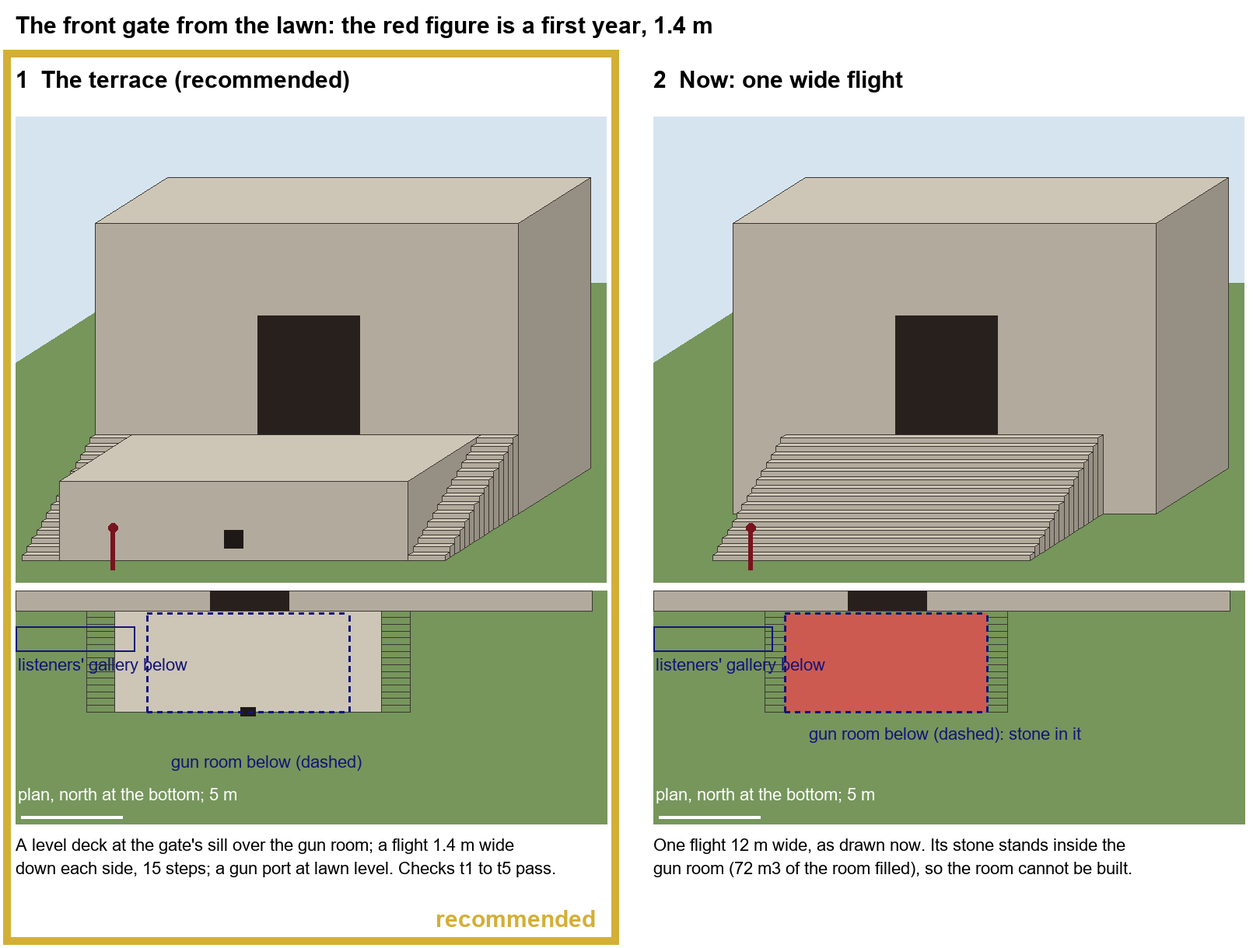
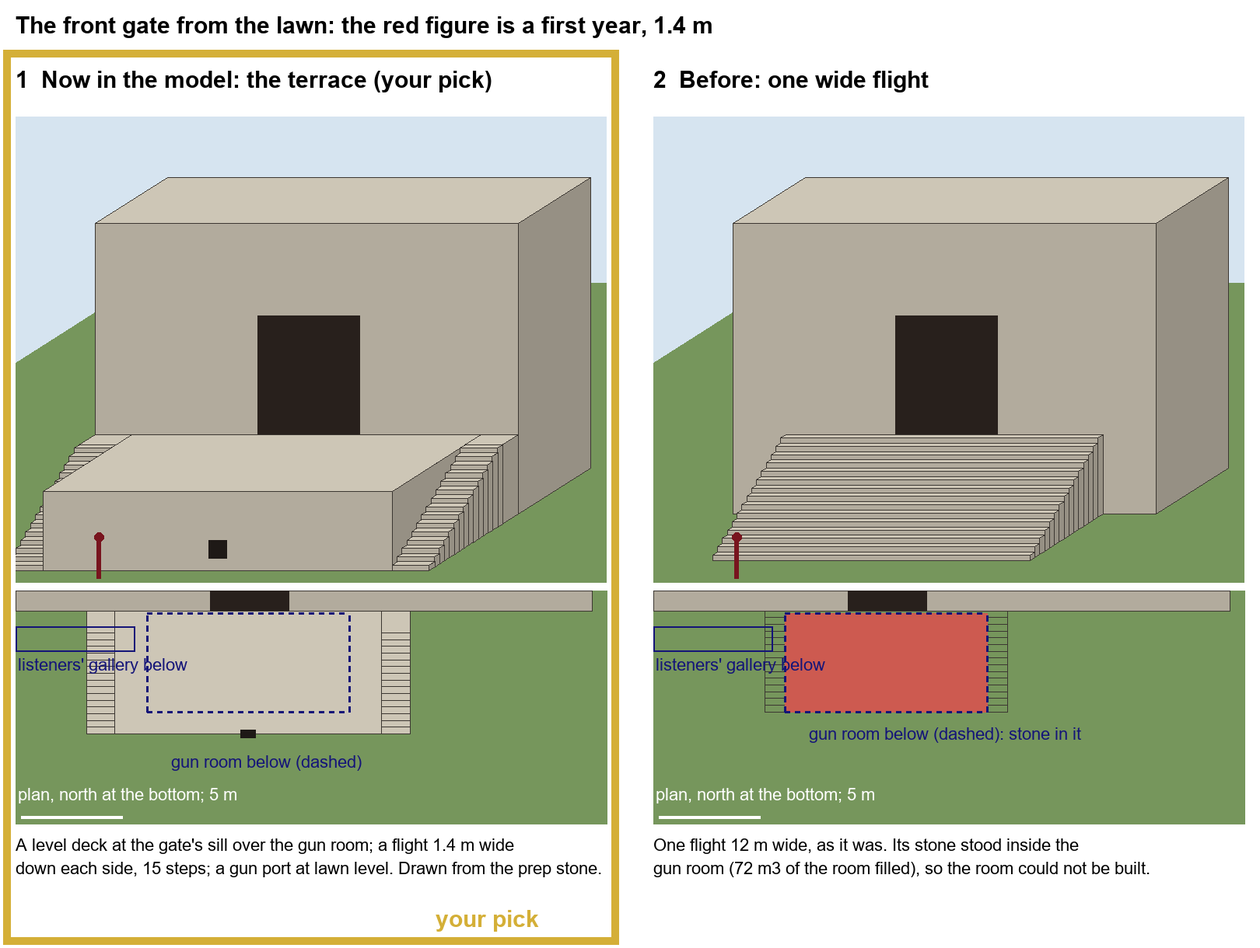
The front terrace in the castle model (v646); its sheet

diff --git a/page/castle-model.js b/page/castle-model.js
@@ -378,6 +378,7 @@ window.CASTLE_MODEL = {
     { "id": "cellars", "rect": [0, 0, 160, 72], "floors": "B", "state": "designed" }
   ],
   "works": [
+    {"id": "front-terrace", "kind": "terrace", "age": "P4", "poly": [[73.4, 85.0], [86.6, 85.0], [86.6, 91.1], [73.4, 91.1]], "base": -3.0, "top": 0.0, "state": "proposed", "about": "Req 5761, Godric's 1 (17 November 2026, 11.17 am): the level terrace over the gun room, a flight at each side, a gun port at lawn level; row 5827 (Fawkes 5.52 pm: build it as drawn); gate 'outdoor stone in the build' (docs/handoff/architect.md, 5.57 pm); tools/test_front_terrace_1117.py t1 to t5; the deck level with the gate's sill (0.0) over the gun room, solid but for it; its front at y 91.1, flush with the flights' feet, 1.1 m in front of the gun room (its wall over the port 1.1 thick); the gun port gun-room-port in that wall."},
     {"id": "p5-spur", "kind": "bastion", "age": "P5", "poly": [[18, 78], [46, 82], [46, 94], [32, 104], [16, 92]], "base": -4.0, "top": 3.0, "parapet": 4.2, "state": "designed", "about": "req 3197 (b), ledger 379: the angled gun bastion of the 1540s on the north lawn, from the massing (tools/architect-accreted-castle.py 'spur': lawn -4 to +3, battered, battlements), never carried into the model. Solid fill to +3 (the crawl gallery of H94 is dug in it, G V1 [16.0, 78.1, 46.1, 100.0]); its east face runs x 46 from y 82 to 94 and holds bastion-flanker's gun port and arch (the flanker's room x 40 to 44.8, y 84 to 92, ceiling 0.6), so the flanker's vault is inside it and no longer bare above the lawn. Drawn as a plain prism to its parapet (4.2, 1.2 over the platform); the batter is not drawn. Its lawn level is Grounds' (this base -4 is the ditch's fill, the massing's LAWN - 4)."},
     {"id": "entrance-buttress-w-1", "kind": "buttress", "age": "P2", "poly": [[68.5, 72], [70.0, 72], [70.0, 74.0], [68.5, 74.0]], "base": -1.5, "top": 6.0, "state": "proposed", "about": "req 3285, Godric's 1 on card 3276 and Exterior's yes on req 3338 (9 November 2026): the Entrance Hall's west north-front buttress for its rib vault (req 3245, spec docs/architect/entrance-hall-structure-3245-spec.md option 1), x 68.5 to 70.0, 1.5 wide, stepped back twice: tier 1 of 3, y 72 to 74.0, from -1.5 to 6.0. The Astronomy Tower's drum between the two is the great buttress. Drawn as a plain prism (castle-exterior.js and castle-shell.js read the works list); the weatherings between the tiers are not drawn."},
     {"id": "entrance-buttress-w-2", "kind": "buttress", "age": "P2", "poly": [[68.5, 72], [70.0, 72], [70.0, 73.3], [68.5, 73.3]], "base": 6.0, "top": 9.0, "state": "proposed", "about": "req 3285, Godric's 1 on card 3276 and Exterior's yes on req 3338 (9 November 2026): the Entrance Hall's west north-front buttress for its rib vault (req 3245, spec docs/architect/entrance-hall-structure-3245-spec.md option 1), x 68.5 to 70.0, 1.5 wide, stepped back twice: tier 2 of 3, y 72 to 73.3, from 6.0 to 9.0. The Astronomy Tower's drum between the two is the great buttress. Drawn as a plain prism (castle-exterior.js and castle-shell.js read the works list); the weatherings between the tiers are not drawn."},
@@ -714,7 +715,7 @@ window.CASTLE_MODEL = {
     {"id": "gate-passage", "look": {"rest": -3, "down": -45, "up": 45, "free": "req 848 fix 2 (Interaction's c53626dc, under Godric's rules of 7.30 am, 21 October 2026): the places to stand, from docs/interaction-places/gate-passage-1.json", "stands": {"start":{"at":[80.0,72.4],"face":[0.0,1.0],"turn":180},"front-doors":{"at":[80.0,76.7],"face":[0.0,-1.0],"turn":180},"guard-room-door":{"at":[79.4,77.8],"face":[-1.0,0.0],"turn":180},"gate-arch":{"at":[80.0,82.6],"face":[0.0,1.0],"turn":180},"mid-1":{"at":[80.0,71.5],"face":null,"turn":180},"mid-2":{"at":[80.0,74.1],"face":null,"turn":180},"s2-door-gate":{"at":[79.0,83.7],"face":[-1.0,0.0],"turn":180}}}, "first": "PS", "name": "the old gate passage through the Astronomy Tower's foot", "level": "G", "age": "P2", "use": "passage", "shape": {"rect": [78.0, 70.0, 82.0, 85.0]}, "ceiling": 4.5, "about": "H4's reading of the drum's foot (unresolved in v29): the tower (centre 80, 77; r 8) stands over the front doors, so its foot is pierced by the first walls' north gate, 4 wide, from an open arch at the drum's face (gate-arch, y 85, the top of the front steps) back to the oak front doors (front-doors, y 70), which stay where the books put them; a vaulted porch the boys walk through every day. Its stone keeps the portcullis's groove (portcullis-groove) and three small square murder holes in the vault (murder-holes); the guard room's wall pretending in its west side (guard-room-door). P2's gate, the portcullis last lowered in P4. Canon PS 6 L2286, PS 9 L2949 (the steps and the door); the gate invented. Ledger line 47 (req 494; Hidden Ways' docs/hidden-ways/batch-1.md, H4); Godric's 1 on hiddenways-batch1-1015 (15 October 2026, 6.11 pm, keep all six); v30; the reading proposed", "state": "proposed", "cite": "PS 6, PS 9"},
     {"id": "guard-room", "first": "PS", "name": "the old gate's guard room, in the Astronomy Tower's foot", "level": "G", "age": "P2", "use": "defence", "look": {"rest": -3, "down": -45, "up": 45, "about": "degrees about the eye at 1.35, positive up (docs/architect/vertical-views.md)", "free": "wave 5, floors G to 3 (the charter's walking freely, 149856e9; Godric's 1 on interaction-places-floorsG3-1020, taken on Fawkes's word 7.23 pm, confirmed 7.24 pm, 20 October 2026; checked by the lead Architect, tools/architect-places.mjs; ledger 141): the places to stand, from docs/interaction-places/guard-room-1.json", "stands": {"start":{"at":[77.1,77.0],"face":[-0.639,0.769],"turn":180},"bench":{"at":[75.4,76.5],"face":[-1.0,0.0],"turn":180},"rack":{"at":[76.0,74.7],"face":[0.0,-1.0],"turn":180},"loop":{"at":[75.6,79.4],"face":[-0.529,0.849],"turn":180}}}, "shape": {"rect": [74.2, 74.0, 77.6, 80.0]}, "ceiling": 4.5, "about": "H4: west of the gate passage inside the drum's wall (its inner face about r 6.5), 3.4 by 6.0, an arrow loop on the lawn (guard-room-loop); the mural stair up to the portcullis room in the drum's wall to its west (gate-mural-stair), the gun room's stair down at its north end (gun-room-stair). In by the passage's wall pretending (guard-room-door), the way back out; so a loop round by the portcullis room and the tower's spiral. Invented. a find, not a door that shows: once he has found it, it stays open to him; nothing glows to say tap me (docs/ministry/readers/GL.md); its way out always open. Ledger line 47 (req 494; Hidden Ways' docs/hidden-ways/batch-1.md, H4); Godric's 1 on hiddenways-batch1-1015 (15 October 2026, 6.11 pm, keep all six); v30; proposed with the gate's reading", "state": "proposed", "cite": ""},
     {"id": "portcullis-room", "first": "PS", "name": "the portcullis room, across the drum over the gate passage", "level": "1", "age": "P2", "use": "defence", "look": {"rest": -3, "down": -45, "up": 45, "about": "degrees about the eye at 1.35, positive up (docs/architect/vertical-views.md)", "free": "wave 5, floors G to 3 (the charter's walking freely, 149856e9; Godric's 1 on interaction-places-floorsG3-1020, taken on Fawkes's word 7.23 pm, confirmed 7.24 pm, 20 October 2026; checked by the lead Architect, tools/architect-places.mjs; ledger 141): the places to stand, from docs/interaction-places/portcullis-room-1.json", "stands": {"start":{"at":[85.4,79.5],"face":[-0.94,-0.34],"turn":180},"winch":{"at":[80.0,78.3],"face":[0.0,-1.0],"turn":180},"portcullis":{"at":[80.0,75.1],"face":[0.0,1.0],"turn":180},"floor-1":{"at":[76.13,75.5],"face":null,"turn":180},"floor-2":{"at":[76.13,78.5],"face":null,"turn":180},"floor-3":{"at":[83.87,75.5],"face":null,"turn":180},"floor-4":{"at":[83.87,78.5],"face":null,"turn":180}}}, "shape": {"rect": [74.2, 74.0, 85.8, 80.0]}, "ceiling": 4.5, "about": "H4: on 1 (z 5.2) across the drum over the passage, the old winch (portcullis-winch) and the portcullis's slot in its floor (portcullis-slot), the murder holes' tops beside it. In by the mural stair from the guard room (gate-mural-stair) and by a low door onto the tower's spiral where it passes +5.2 (portcullis-room-spiral, pending ledger 42's turret). Invented. a find, not a door that shows: once he has found it, it stays open to him; nothing glows to say tap me (docs/ministry/readers/GL.md); its way out always open. Ledger line 47 (req 494; Hidden Ways' docs/hidden-ways/batch-1.md, H4); Godric's 1 on hiddenways-batch1-1015 (15 October 2026, 6.11 pm, keep all six); v30; proposed with the gate's reading", "state": "proposed", "cite": ""},
-    {"id": "gun-room", "first": "PS", "name": "the gun room under the front steps", "level": "G", "age": "P4", "use": "defence", "floor": -3.0, "shape": {"rect": [75.0, 85.0, 85.0, 90.0]}, "ceiling": -0.6, "look": {"rest": -3, "down": -45, "up": 45, "about": "degrees about the eye at 1.35, positive up (docs/architect/vertical-views.md)", "free": "the places to stand, from docs/interaction-places/gun-room-1.json (variant 1, stamped model 101), folded in on req 2143 (31 October 2026) and checked against the room as it stands now: floor -3.0, rect 75 to 85 by 85 to 90; the gun stand moved from (80.0, 88.3), which lies on the gun carriage (barrel x 79.8 to 80.2, y 87.6 to 89.9), to (80.0, 86.6), facing the breech", "stands": {"start":{"at":[75.8,86.4],"face":[1.0,0.0],"turn":180},"gun":{"at":[80.0,86.6],"face":[0.0,1.0],"turn":180},"grating-west":{"at":[75.7,88.3],"face":[-1.0,0.0],"turn":180},"grating-east":{"at":[84.3,87.5],"face":[1.0,0.0],"turn":180}}}, "about": "H5: under the top of the front steps (the plans' steps, x 74 to 86, y 85 to 90), a low vault 10 by 5, its floor 3.0 below the doors' sill (the lawn's own level, so the steps climb 15 risers over it) and clear to -0.6; floor and ceiling from the ground floor's level. P4's battery before the gate tower, the steps laid up its face. Its old gun loops are small gratings in the steps' side walls (gun-room-grating-w, -e): daylight, the lawn's air, feet overhead. In by the narrow stair down from the guard room (gun-room-stair), its way back. Canon PS 6 L2286, PS 9 L2949, PoA 16 L19866 (the steps); the room invented. a find, not a door that shows: once he has found it, it stays open to him; nothing glows to say tap me (docs/ministry/readers/GL.md); its way out always open. Ledger line 48 (req 494; Hidden Ways' docs/hidden-ways/batch-1.md, H5); Godric's 1 on hiddenways-batch1-1015 (15 October 2026, 6.11 pm, keep all six); v30; proposed with the gate's reading", "state": "proposed", "cite": ""},
+    {"id": "gun-room", "first": "PS", "name": "the gun room under the front terrace", "level": "G", "age": "P4", "use": "defence", "floor": -3.0, "shape": {"rect": [75.0, 85.0, 85.0, 90.0]}, "ceiling": -0.7, "look": {"rest": -3, "down": -45, "up": 45, "about": "degrees about the eye at 1.35, positive up (docs/architect/vertical-views.md)", "free": "the places to stand, from docs/interaction-places/gun-room-1.json (variant 1, stamped model 101), folded in on req 2143 (31 October 2026) and checked against the room as it stands now: floor -3.0, rect 75 to 85 by 85 to 90; the gun stand moved from (80.0, 88.3), which lies on the gun carriage (barrel x 79.8 to 80.2, y 87.6 to 89.9), to (80.0, 86.6), facing the breech", "stands": {"start":{"at":[75.8,86.4],"face":[1.0,0.0],"turn":180},"gun":{"at":[80.0,86.6],"face":[0.0,1.0],"turn":180},"grating-west":{"at":[75.7,88.3],"face":[-1.0,0.0],"turn":180},"grating-east":{"at":[84.3,87.5],"face":[1.0,0.0],"turn":180}}}, "about": "H5: under the top of the front steps (the plans' steps, x 74 to 86, y 85 to 90), a low vault 10 by 5, its floor 3.0 below the doors' sill (the lawn's own level, so the steps climb 15 risers over it) and clear to -0.6; floor and ceiling from the ground floor's level. P4's battery before the gate tower, the steps laid up its face. Its old gun loops are small gratings in the steps' side walls (gun-room-grating-w, -e): daylight, the lawn's air, feet overhead. In by the narrow stair down from the guard room (gun-room-stair), its way back. Canon PS 6 L2286, PS 9 L2949, PoA 16 L19866 (the steps); the room invented. a find, not a door that shows: once he has found it, it stays open to him; nothing glows to say tap me (docs/ministry/readers/GL.md); its way out always open. Ledger line 48 (req 494; Hidden Ways' docs/hidden-ways/batch-1.md, H5); Godric's 1 on hiddenways-batch1-1015 (15 October 2026, 6.11 pm, keep all six); v30; proposed with the gate's reading", "state": "proposed", "cite": ""},
     {"id": "drum-room-6", "first": "PS", "name": "the round room under the common room, the house's old strong room", "level": "6", "age": "P3", "use": "store", "look": {"rest": -3, "down": -45, "up": 45, "about": "degrees about the eye at 1.35, positive up (docs/architect/vertical-views.md)", "free": "Interaction's floor 5 and 6 places (the charter's walking freely, 149856e9; Godric's 1 on interaction-places-floor5 and -floor6, Godric to confirm; checked by the second Architect, tools/architect-w5b-places.mjs, 0 flagged; row W5B-17): the places to stand, from docs/interaction-places/drum-room-6-1.json", "stands": {"start":{"at":[42.19,6.45],"face":[0.0,-1.0],"turn":180},"chests":{"at":[45.79,1.95],"face":[1.0,0.0],"turn":180},"plate-press":{"at":[39.07,0.15],"face":[-0.867,-0.498],"turn":180},"banners":{"at":[38.59,1.95],"face":[-1.0,-0.0],"turn":180},"records":{"at":[39.07,3.75],"face":[-0.867,0.498],"turn":180},"window":{"at":[42.19,-2.05],"face":[0.0,-1.0],"turn":180},"floor-1":{"at":[42.19,1.95],"face":null,"turn":180}}}, "shape": {"circle": [42.19, 1.95], "r": 5.0}, "ceiling": 4.5, "about": "H6: on 6 (z 31.2, clear 4.5) inside Gryffindor Tower's drum (r 6.4, its wall 1.4), 10 across, the floor under the common room (on 7). The layout's sixth-floor storeroom of the house made a find; G to 5 stay storerooms. On 6 the lake-face corridor stops at the drum each side (x 35.8, 48.6) and the way round is north of it, the layout's bend (x 35.8 to 48.6, y 8.35 to 11.35) and its service passage u, confirmed; in by a stretch of the drum's curved wall on that bend that is a wall pretending (drum-room-6-door, PS 8 L2722), the way back out; a window on the lake (drum-room-6-window). P3's strong room under the house's hall, forgotten. Opens nothing into the common room, never bypasses the Fat Lady. Canon PS 7 L2677 (the common room round); invented. a find, not a door that shows: once he has found it, it stays open to him; nothing glows to say tap me (docs/ministry/readers/GL.md); its way out always open. Ledger line 49 (req 494; Hidden Ways' docs/hidden-ways/batch-1.md, H6); Godric's 1 on hiddenways-batch1-1015 (15 October 2026, 6.11 pm, keep all six); v30", "state": "designed", "cite": "PS 8"},
     {"id": "founders-undercroft", "look": {"rest": -3, "down": -45, "up": 45, "stands": {"start": {"turn": 180}, "founders-well": {"at": [81.5, 6.8], "face": [-1.0, 0.0], "turn": 180}, "stone-bins": {"at": [86.6, 6.75], "face": [1.0, 0.0], "turn": 180}, "crocks": {"at": [74.5, 9.6], "face": [0.0, 1.0], "turn": 180}, "stave-heap": {"at": [86.5, 9.2], "face": [0.0, 1.0], "turn": 180}, "salting-trough": {"at": [73.2, 6.0], "face": [-1.0, 0.0], "turn": 180}, "walled-arch": {"at": [80.0, 3.4], "face": [0.0, -1.0], "turn": 180}, "west-arch": {"at": [72.4, 2.6], "face": [-1.0, 0.0], "turn": 180}, "floor-1": {"at": [76.2, 2.8], "face": null, "turn": 180}, "floor-2": {"at": [84.0, 2.8], "face": null, "turn": 180}, "floor-3": {"at": [87.4, 3.2], "face": null, "turn": 180}, "floor-4": {"at": [77.0, 7.0], "face": null, "turn": 180}, "floor-5": {"at": [83.8, 4.8], "face": null, "turn": 180}, "floor-6": {"at": [83.0, 9.6], "face": null, "turn": 180}}, "free": "req 719 (Interaction; the charter's walking freely, 149856e9; Godric's 1 on its places card, 20 October 2026, 11.50 to 11.52 am): the places to stand, from docs/interaction-places/founders-undercroft-1.json"}, "first": "PS", "name": "the founders' undercroft, the keep's lowest storey, and their well", "level": "B", "age": "P1", "use": "cellar", "shape": {"rect": [71.0, 2.0, 89.0, 11.6]}, "ceiling": 4.2, "vault": {"kind": "groin", "piers": [[77.0, 6.8], [83.0, 6.8]], "about": "three groin bays of 6 by 4.8 on two free piers, so the founders' well (79.2 to 80.8, 6.0 to 7.6) stands under the middle bay's crown; the default set its middle pier on the well (the Architect's 163rd, 24 October 2026, found shooting the lid sheet for req 1104). v201"}, "about": "H7: under the founders' keep at B (z -5.2, clear 4.2 to the vault's crown), rough vaulted in the keep's thick walls, 18 by 9.6, south of the dungeon corridor (y 12 to 15). The founders' well in it (founders-well), its oak lid shut and heavy, never open water, set per boy (Godric's safeguard). In its south wall against the cliff the founders' own stair down through the rock to the harbour, walled up long ago (founders-stair-arch): it stays a walled arch, a trace, and nothing opens to the harbour (opening it is a Ministry question). Ways in: a wall pretending at the dead end, against the keep, of the lake-face corridor's stretch west of it (undercroft-wall, then undercroft-west-way through the keep's 3 m wall), and a low door in the dungeon corridor's south wall (undercroft-door). The keep's lowest storey, its stores and its water (P1), walled off when the first walls gave the school a gate (P2). Canon CoS 9 (built far from prying eyes), PS 8 L2776 (the dungeons colder); the room invented. a find, not a door that shows: once he has found it, it stays open to him; nothing glows to say tap me (docs/ministry/readers/GL.md); its way out always open. Ledger line 50 (req 501; Hidden Ways' docs/hidden-ways/batch-2.md, H7); Godric's 1 on hiddenways-batch2-1015 (15 October 2026, 6.21 pm, keep all five); v31", "state": "designed", "cite": "CoS 9", "blind": "no window on purpose: the keep's undercroft, under its lake terrace: lamps (by what it is for; architect-dark-rooms-1021, Try 4 (Godric, 7.52 pm, 21 October 2026, relayed by Fawkes; req 866 (3)); ledger 209, v144)"},
     {"id": "undercroft-west-way", "first": "PS", "name": "the way through the keep's west wall to the undercroft", "level": "B", "age": "P1", "use": "hidden", "look": {"rest": -3, "down": -45, "up": 45, "about": "degrees about the eye at 1.35, positive up (docs/architect/vertical-views.md)", "free": "wave 5 floor B's places, variant 1, taken at 1 on Fawkes's rule (6.10 pm, 20 October 2026), confirmed by Godric (interaction-places-floorB-1020, 6.56 to 6.58 pm); ledger 132: the places to stand, from docs/interaction-places/undercroft-west-way-1.json", "stands": {"start":{"at":[68.6,2.6],"face":[1.0,0.0],"turn":180},"arch":{"at":[70.4,2.6],"face":[1.0,0.0],"turn":180}}}, "shape": {"rect": [68.0, 2.1, 71.0, 3.1]}, "ceiling": 2.2, "about": "H7: 1.0 wide and 3.0 long through the keep's wall, from the wall pretending at the corridor's dead end (undercroft-wall) to a low arch into the undercroft's west end (undercroft-west-arch). a find, not a door that shows: once he has found it, it stays open to him; nothing glows to say tap me (docs/ministry/readers/GL.md); its way out always open. Ledger line 50 (req 501; Hidden Ways' docs/hidden-ways/batch-2.md, H7); Godric's 1 on hiddenways-batch2-1015 (15 October 2026, 6.21 pm, keep all five); v31", "state": "designed", "cite": "", "blind": "no window on purpose: through the keep's west wall (a hidden way or room; architect-dark-rooms-1021, Try 4 (Godric, 7.52 pm, 21 October 2026, relayed by Fawkes; req 866 (3)); ledger 209, v144)"},
@@ -1295,8 +1296,7 @@ window.CASTLE_MODEL = {
     {"id": "guard-room-door", "inside": "guard-room", "first": "PS", "kind": "hidden: a wall pretending to be one", "between": ["gate-passage", "guard-room"], "at": [77.8, 77.0], "sill": 0.0, "w": 0.9, "h": 2.0, "state": "proposed", "about": "in the gate passage's west wall (PS 8 L2722). a find, not a door that shows: once he has found it, it stays open to him; nothing glows to say tap me (docs/ministry/readers/GL.md); its way out always open. Ledger line 47 (req 494; Hidden Ways' docs/hidden-ways/batch-1.md, H4); Godric's 1 on hiddenways-batch1-1015 (15 October 2026, 6.11 pm, keep all six); v30 v36: its hidden side guard-room, from which it is a way out, drawn as the opening's back (the way out from every hidden place)", "cite": "PS 8"},
     {"id": "guard-room-loop", "first": "PS", "kind": "arrow loop", "room": "guard-room", "at": [73.9, 82.1], "w": 0.15, "h": 1.2, "sill": 1.0, "depth": 2.4, "view": "the front lawn to the north-west", "state": "proposed", "about": "Ledger line 47 (req 494; Hidden Ways' docs/hidden-ways/batch-1.md, H4); Godric's 1 on hiddenways-batch1-1015 (15 October 2026, 6.11 pm, keep all six); v30", "cite": ""},
     {"id": "portcullis-room-spiral", "inside": "portcullis-room", "first": "PS", "kind": "hidden: a low door in the spiral's wall", "between": ["portcullis-room", "the Astronomy Tower's spiral"], "at": [85.4, 80.0], "sill": 0.0, "w": 0.8, "h": 1.5, "state": "proposed", "about": "onto the tower's spiral in its turret (astronomy-spiral, ledger 42, centre 86.6, 82) where it passes +5.2, through the drum's wall at the room's north-east corner (v31; proposed with H4's reading). a find, not a door that shows: once he has found it, it stays open to him; nothing glows to say tap me (docs/ministry/readers/GL.md); its way out always open. Ledger line 47 (req 494; Hidden Ways' docs/hidden-ways/batch-1.md, H4); Godric's 1 on hiddenways-batch1-1015 (15 October 2026, 6.11 pm, keep all six); v30 v36: its hidden side portcullis-room, from which it is a way out, drawn as the opening's back (the way out from every hidden place)", "cite": ""},
-    {"id": "gun-room-grating-w", "first": "PS", "kind": "grating, small, the old gun loop, in the steps' side wall", "room": "gun-room", "at": [75.0, 87.5], "w": 0.6, "h": 0.3, "sill": 1.8, "view": "the lawn, low", "state": "proposed", "about": "Ledger line 48 (req 494; Hidden Ways' docs/hidden-ways/batch-1.md, H5); Godric's 1 on hiddenways-batch1-1015 (15 October 2026, 6.11 pm, keep all six); v30", "cite": ""},
-    {"id": "gun-room-grating-e", "first": "PS", "kind": "grating, small, the old gun loop, in the steps' side wall", "room": "gun-room", "at": [85.0, 87.5], "w": 0.6, "h": 0.3, "sill": 1.8, "view": "the lawn, low", "state": "proposed", "about": "Ledger line 48 (req 494; Hidden Ways' docs/hidden-ways/batch-1.md, H5); Godric's 1 on hiddenways-batch1-1015 (15 October 2026, 6.11 pm, keep all six); v30", "cite": ""},
+    {"id": "gun-room-port", "first": "PS", "kind": "embrasure, its gun's, cannon-flared inside, in the terrace's front wall", "room": "gun-room", "at": [80.0, 90.0], "w": 0.7, "h": 0.7, "sill": 0.45, "view": "the lawn, level", "state": "proposed", "about": "Req 5761, Godric's 1 (17 November 2026, 11.17 am): the level terrace over the gun room, a flight at each side, a gun port at lawn level; row 5827 (Fawkes 5.52 pm: build it as drawn); gate 'outdoor stone in the build' (docs/handoff/architect.md, 5.57 pm); tools/test_front_terrace_1117.py t1 to t5; sill 0.45 over the room's floor, which is the lawn's level, so a gun on its deck fires level over the lawn."},
     {"id": "drum-room-6-door", "inside": "drum-room-6", "first": "PS", "kind": "hidden: a wall pretending to be one", "between": ["drum-bend-6", "drum-room-6"], "at": [42.19, 8.35], "sill": 0.0, "w": 0.9, "h": 2.0, "depth": 1.4, "state": "designed", "about": "a stretch of the drum's curved wall on the bend north of it, bearing 0 (PS 8 L2722). a find, not a door that shows: once he has found it, it stays open to him; nothing glows to say tap me (docs/ministry/readers/GL.md); its way out always open. Ledger line 49 (req 494; Hidden Ways' docs/hidden-ways/batch-1.md, H6); Godric's 1 on hiddenways-batch1-1015 (15 October 2026, 6.11 pm, keep all six); v30 v36: its hidden side drum-room-6, from which it is a way out, drawn as the opening's back (the way out from every hidden place)", "cite": "PS 8"},
     {"id": "drum-room-6-window", "first": "PS", "kind": "window, in the drum's wall", "room": "drum-room-6", "at": [42.19, -4.45], "w": 0.9, "h": 2.0, "sill": 1.0, "depth": 1.4, "view": "the lake to the south", "state": "designed", "about": "bearing 180, under the common room's own. Ledger line 49 (req 494; Hidden Ways' docs/hidden-ways/batch-1.md, H6); Godric's 1 on hiddenways-batch1-1015 (15 October 2026, 6.11 pm, keep all six); v30", "cite": ""},
     {"id": "undercroft-wall", "inside": "undercroft-west-way", "first": "PS", "kind": "hidden: a wall pretending to be one", "between": ["lake-corridor-b-keep", "undercroft-west-way"], "at": [68.0, 2.6], "sill": 0.0, "w": 0.9, "h": 2.0, "state": "designed", "about": "the corridor's end wall sounds hollow (PS 8 L2722). a find, not a door that shows: once he has found it, it stays open to him; nothing glows to say tap me (docs/ministry/readers/GL.md); its way out always open. Ledger line 50 (req 501; Hidden Ways' docs/hidden-ways/batch-2.md, H7); Godric's 1 on hiddenways-batch2-1015 (15 October 2026, 6.21 pm, keep all five); v31 v36: its hidden side undercroft-west-way, from which it is a way out, drawn as the opening's back (the way out from every hidden place)", "cite": "PS 8"},
@@ -2041,8 +2041,9 @@ window.CASTLE_MODEL = {
     {"id": "mural-stair-5", "first": "PS", "kind": "mural stair, narrow and steep, in the well's east wall, built out 1.2 into the east courtyard", "rooms": ["stair hall"], "rect": [92.0, 24.0, 93.2, 30.5], "from": 26.0, "to": 31.2, "treads": 26, "rise": 0.2, "going": 0.225, "about": "PS 7's short cut (\"twice Percy led them through doorways hidden behind sliding panels and hanging tapestries\"): from hidden-doorway-tapestry on 5 north up a straight flight to hidden-doorway-tapestry-head on 6; a 0.65 m landing inside the door before the first riser (Interiors' near miss, a boy crouched a step inside, docs/interiors/stair-hall.md). sheet architect-hidden-ways-1015-1713", "state": "proposed", "cite": "PS 7"},
     {"id": "hall-kitchens-stair", "first": "PS", "kind": "dog-leg stair behind a false panel, the elves' way down from the hall to the kitchens", "rooms": ["great-hall", "kitchens"], "rect": [12.6, 64.0, 15.0, 69.4], "floors": ["B", "G"], "from": -5.2, "to": 0.45, "treads": 28, "rise": 0.2, "going": 0.25, "lamp": {"at": [13.8, 69.4], "z": 2.65, "about": "the stair's own lamp, an iron bracket on the north wall over the landing, 2.2 above it at the dog-leg's top: it lights the first flight's top step (x 13.6 to 14.6, y 68.4) when the panel opens, and stands west of the open leaf (x 14.2 to 15.0, to 2.35); behind the shut panel nothing of it shows in the hall (ledger line 112, req 615)"}, "about": "in the free strip west of the hall's north end (on G between the chamber behind the staff table, to y 63, and the north wall; on B between the elves' warm room secret-s3, to y 64, and the north wall): a landing inside the panel at the platform's height (+0.45, x 13.6 to 15, y 68.4 to 69.4), a flight of 14 south down x 13.6 to 14.6, a half-landing at y 64.0 to 64.9, a flight of 14 back north down x 12.6 to 13.6, and a landing at -5.2 under the first (x 12.6 to 15, y 68.4 to 69.4) to the jib in the kitchens' west wall (kitchens-stair-jib). The kitchens' tables stand exactly beneath the house tables (GoF 21 L28856), so the elves' way up runs from the hall's west end down to the fireplace's end; nothing near the seven passages to Hogsmeade. Ledger line 43 (req 491, the Great Hall's ask; Godric's note of 15 October 2026, 5.42 pm, hidden places behind false panels and trapdoors); v30; designed, Godric's 1 on architect-v30-1015 (15 October 2026, 7.17 pm: the false panel)", "state": "designed", "cite": "GoF 21"},
     {"id": "gate-mural-stair", "first": "PS", "kind": "mural stair, narrow and steep, in the Astronomy Tower drum's west wall", "rooms": ["guard-room", "portcullis-room"], "rect": [72.9, 73.6, 73.7, 80.4], "from": 0.0, "to": 5.2, "treads": 26, "rise": 0.2, "going": 0.26, "about": "H4: its foot off the guard room's west wall at its north end, climbing south in the wall, its head into the portcullis room's west end; lit by the loops. Ledger line 47 (req 494; Hidden Ways' docs/hidden-ways/batch-1.md, H4); Godric's 1 on hiddenways-batch1-1015 (15 October 2026, 6.11 pm, keep all six); v30; proposed with the gate's reading", "state": "proposed", "cite": ""},
-    {"id": "gun-room-stair", "first": "PS", "kind": "narrow straight stair down, in the drum's wall and under the terrace", "rooms": ["guard-room", "gun-room"], "rect": [74.4, 80.2, 75.3, 85.2], "from": -3.0, "to": 0.0, "treads": 15, "rise": 0.2, "going": 0.33, "about": "H5: from the guard room's north end down north to the gun room's west end. Ledger line 48 (req 494; Hidden Ways' docs/hidden-ways/batch-1.md, H5); Godric's 1 on hiddenways-batch1-1015 (15 October 2026, 6.11 pm, keep all six); v30; proposed with the gate's reading", "state": "proposed", "cite": ""},
-    {"id": "front-steps", "first": "PS", "kind": "broad straight flight, the castle's front steps, up from the lawn to the gate arch", "rooms": ["grounds"], "rect": [74.0, 85.0, 86.0, 90.0], "from": -3.0, "to": 0.0, "treads": 15, "rise": 0.2, "going": 0.333, "about": "Req 2730 (scope answer 3 November 2026, docs/architect/scope-answer-1103.md): the steps the changes ledger line 333 ruled, foot at y 90 on the lawn at -3.0, top at the gate arch (y 85, the doors' sill level), 12 wide, fifteen risers laid over the gun room (rooms:gun-room, floor -3.0, rect 75 to 85 by 85 to 90) as H5 reads them; the drive's sweep (ground:drive) leaves the foot 10 m out. Width 12 and the fifteen risers are the plans'; the reading stays proposed.", "state": "proposed", "cite": "PS 6"},
+    {"id": "gun-room-stair", "first": "PS", "kind": "narrow straight stair down, in the drum's wall and under the terrace", "rooms": ["guard-room", "gun-room"], "rect": [74.4, 80.2, 75.3, 85.2], "from": -3.0, "to": 0.0, "up": [0, -1], "treads": 15, "rise": 0.2, "going": 0.33, "about": "H5: from the guard room's north end down north to the gun room's west end. Ledger line 48 (req 494; Hidden Ways' docs/hidden-ways/batch-1.md, H5); Godric's 1 on hiddenways-batch1-1015 (15 October 2026, 6.11 pm, keep all six); v30; proposed with the gate's reading", "state": "proposed", "cite": ""},
+    {"id": "front-steps-w", "first": "PS", "kind": "straight flight, open to the sky, solid under each tread: the front terrace's west steps, up from the lawn to the terrace beside the gate", "rooms": ["grounds"], "outdoor": true, "rect": [72.0, 85.0, 73.4, 91.1], "from": -3.0, "to": 0.0, "up": [0, -1], "treads": 15, "rise": 0.2, "going": 0.333333, "about": "Req 5761, Godric's 1 (17 November 2026, 11.17 am): the level terrace over the gun room, a flight at each side, a gun port at lawn level; row 5827 (Fawkes 5.52 pm: build it as drawn); gate 'outdoor stone in the build' (docs/handoff/architect.md, 5.57 pm); tools/test_front_terrace_1117.py t1 to t5; foot at y 91.1 on the lawn, flush with the terrace's front, the last 1.1 m to the tower face a landing at the terrace's 0.0 (read38's t6: s2-double-stair's round wall stands out to y 86.03 over the west flight's top). Replaces front-steps (12 wide over the gun room, PS 6; the 4 m overlap Godric saw).", "state": "proposed", "cite": "PS 6"},
+    {"id": "front-steps-e", "first": "PS", "kind": "straight flight, open to the sky, solid under each tread: the front terrace's east steps, up from the lawn to the terrace beside the gate", "rooms": ["grounds"], "outdoor": true, "rect": [86.6, 85.0, 88.0, 91.1], "from": -3.0, "to": 0.0, "up": [0, -1], "treads": 15, "rise": 0.2, "going": 0.333333, "about": "Req 5761, Godric's 1 (17 November 2026, 11.17 am): the level terrace over the gun room, a flight at each side, a gun port at lawn level; row 5827 (Fawkes 5.52 pm: build it as drawn); gate 'outdoor stone in the build' (docs/handoff/architect.md, 5.57 pm); tools/test_front_terrace_1117.py t1 to t5; foot at y 91.1 on the lawn, flush with the terrace's front, the last 1.1 m to the tower face a landing at the terrace's 0.0 (read38's t6: s2-double-stair's round wall stands out to y 86.03 over the west flight's top). Replaces front-steps (12 wide over the gun room, PS 6; the 4 m overlap Godric saw).", "state": "proposed", "cite": "PS 6"},
     {"id": "library-gallery-stair", "first": "PS", "kind": "straight stair, narrow and steep, climbing south in the strip between Madam Pince's office and K's lobby", "rooms": ["library", "library-gallery-way"], "rect": [65.0, 54.75, 65.9, 60.5], "floors": ["4", "5"], "from": 20.8, "to": 26.0, "treads": 26, "rise": 0.2, "going": 0.23, "about": "H8: its foot in a pocket in the library's south wall behind the turning bookcase (library-bookcase; x 64.0 to 65.9, y 60.5 to 61.4, +20.8), one flight of 26 risers south to its head on 5 at y 54.75 (+26.0) in library-gallery-way; the stairwell open on 5 over its upper half with a rail beside it. 0.9 wide, clear of Madam Pince's office (to x 64.85) and K's lobby (from x 66). Ledger line 51 (req 501; Hidden Ways' docs/hidden-ways/batch-2.md, H8); Godric's 1 on hiddenways-batch2-1015 (15 October 2026, 6.21 pm, keep all five); v31; the route the Architect's, designed on Godric's 2 (architect-v31-1015, taken 8.01 pm, provisional, Godric to confirm); v32", "state": "designed", "cite": ""},
     {"id": "vault-stair", "first": "PS", "kind": "straight stair cut in the rock, steep, down from the lake-face corridor", "rooms": ["cliff-vault"], "rect": [110.0, -5.0, 111.0, 0.6], "landing": [110.0, -5.0, 111.0, -4.4], "from": -10.4, "to": -5.2, "treads": 26, "rise": 0.2, "going": 0.2, "about": "H9: behind the wall pretending in the lake-face corridor's south wall (vault-stair-wall, at -5.2), one flight south beside the vault's east wall to a landing at -10.4 (y -5.0 to -4.4) and the low arch into the vault (vault-stair-foot); the way back. Run along the vault, since a 5.2 drop wants 5 m of going and the vault is 5.6 deep. Ledger line 52 (req 501; Hidden Ways' docs/hidden-ways/batch-2.md, H9); Godric's 1 on hiddenways-batch2-1015 (15 October 2026, 6.21 pm, keep all five); v31; the route the Architect's, designed on Godric's 2 (architect-v31-1015, taken 8.01 pm, provisional, Godric to confirm); v32", "state": "designed", "cite": ""},
     {"id": "tapestry-stair", "first": "PS", "kind": "dog-leg stair, narrow, two dog-legs one over the other, a tapestry at each end", "rooms": ["transfiguration-passage", "charms-passage"], "rect": [139.2, 59.3, 144.6, 61.2], "floors": ["1", "2", "3"], "from": 5.2, "to": 15.6, "treads": 52, "rise": 0.2, "going": 0.25, "about": "H11: in the strip east of the two passages that the layout leaves unassigned on 1 and 3 (y 59 to 63.4 on 1, 59 to 62.4 on 3), through the south edge of the layout's study room af on 2. Landings at the west end behind the tapestries (x 139.2 to 140.2) and at the east end (x 143.2 to 144.6); each dog-leg a flight of 13 east on the north side (y 60.35 to 61.2, x 140.2 to 143.2) and 13 back west on the south side (y 59.3 to 60.15), each 0.85 wide, 1.9 in all; the second floor's landing between them opens nowhere. The trick step the first tread above it (tapestry-stair-trick-step). The ranges' builders' stairs between floors (P3 and after), joining the two classrooms stacked one over the other. Canon PS 7 L2651 (doorways behind hanging tapestries), PS 8 L2722 (the vanishing step); invented, nothing on Harry's path. Ledger line 54 (req 501; Hidden Ways' docs/hidden-ways/batch-2.md, H11); Godric's 1 on hiddenways-batch2-1015 (15 October 2026, 6.21 pm, keep all five); v31; the route the Architect's, designed on Godric's 2 (architect-v31-1015, taken 8.01 pm, provisional, Godric to confirm); v32", "state": "designed", "cite": "PS 7"},

diff --git a/page/shell.html b/page/shell.html
@@ -160,7 +160,7 @@ line, the mote, travel and reveal) is castle.js's, unedited.
 <div id="roomnote" hidden></div>
 <script src="https://cdnjs.cloudflare.com/ajax/libs/three.js/r128/three.min.js"></script>
 <script src="castle.js?v=15"></script>
-<script src="castle-model.js?v=645"></script>
+<script src="castle-model.js?v=646"></script>
 <!-- the floor files: tools/castle-floor.py writes this block, never by hand -->
 <script src="castle-model-B.js?v=9"></script>
 <script src="castle-model-G.js?v=20"></script>

diff --git a/page/clementine.html b/page/clementine.html
@@ -124,7 +124,7 @@ workroom in autumn 1897, at real size, nothing drawn: every piece a grey placeho
 <div id="help">Drag to look around.</div>
 <script src="https://cdnjs.cloudflare.com/ajax/libs/three.js/r128/three.min.js"></script>
 <script src="castle.js?v=15"></script>
-<script src="castle-model.js?v=645"></script>
+<script src="castle-model.js?v=646"></script>
 <script src="castle-paint.js?v=84"></script>
 <script src="design/tones.js?v=6"></script>
 <script src="design/stone-face.js?v=1"></script>

diff --git a/page/great-hall.html b/page/great-hall.html
@@ -132,7 +132,7 @@ shot before anything is spent.
 <div id="help">Drag to look around.</div>
 <script src="https://cdnjs.cloudflare.com/ajax/libs/three.js/r128/three.min.js"></script>
 <script src="castle.js?v=15"></script>
-<script src="castle-model.js?v=645"></script>
+<script src="castle-model.js?v=646"></script>
 <!-- the floor files: tools/castle-floor.py writes this block, never by hand -->
 <script src="castle-model-B.js?v=9"></script>
 <script src="castle-model-G.js?v=20"></script>
